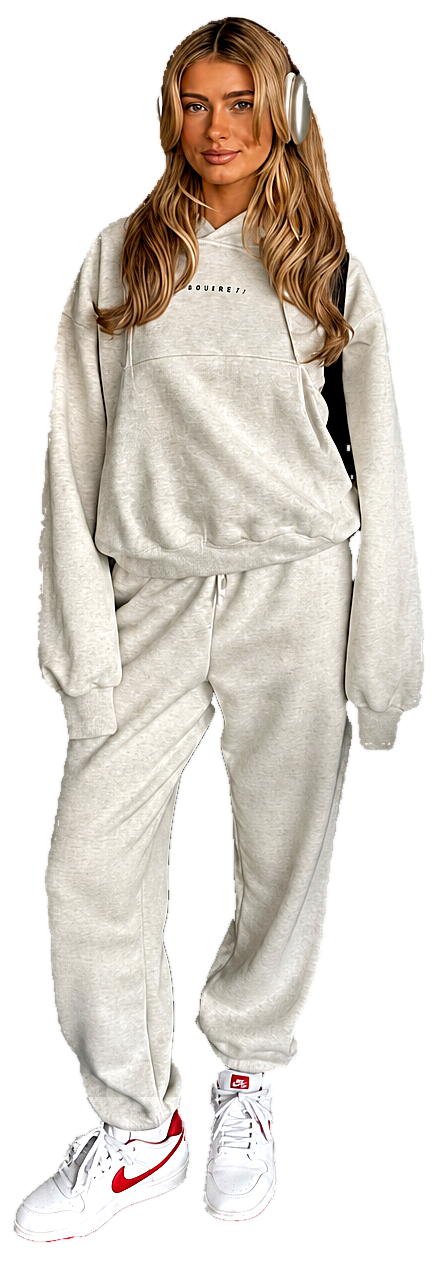
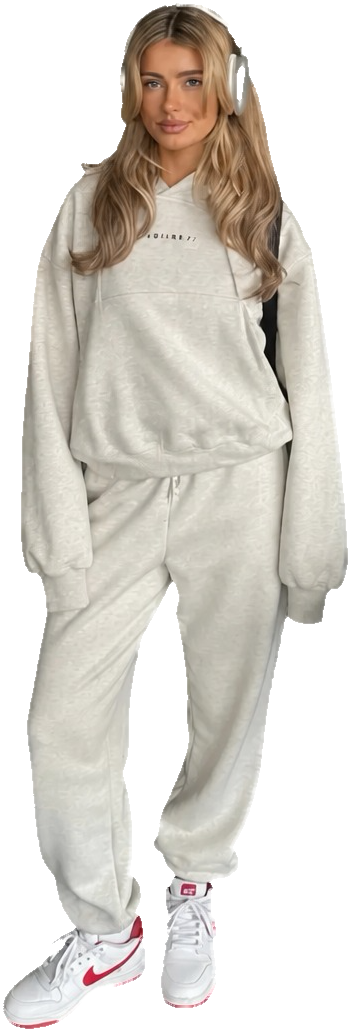
Fashion: recut style-carousel models from new photos, drop figure shadow stack
New user-supplied model photos for all four Discover-it slides, keyed off
their grey studio backdrops with an edge-flood pipeline (garment whites
preserved, pose gaps punched through, hair wisps translucent instead of
white-fringed). Remove the drop-shadow stack that read as a dark aura
around every figure, and size the centre figure down to 76%/55% lifted
off the stage floor so the photos render under native resolution.

diff --git a/components/StyleCarousel.css b/components/StyleCarousel.css
@@ -31,14 +31,8 @@
   object-fit: contain; object-position: bottom center;
   -webkit-user-drag: none;
   position: relative; z-index: 1;
-  /* Depth + separation: a grounded cast shadow lifts the figure off the
-     backdrop (the 3D), and a tight halo-shadow traces the silhouette so
-     light shoes / cream fabric never dissolve into a light slide. */
-  filter:
-    drop-shadow(0 22px 28px rgba(0,0,0,.5))
-    drop-shadow(0 8px 12px rgba(0,0,0,.36))
-    drop-shadow(0 2px 4px rgba(0,0,0,.28))
-    drop-shadow(0 0 1.5px rgba(0,0,0,.55));
+  /* no drop-shadows: the silhouette-hugging shadow stack read as a black
+     aura around every figure — grounding comes from the pedestal disc */
 }
 
 /* Mini pedestal — a soft round disc the figure appears to stand on. Two

diff --git a/components/StyleCarousel.js b/components/StyleCarousel.js
@@ -146,10 +146,12 @@ export default function StyleCarousel() {
     if (role === "center") {
       return {
         left: "50%",
-        bottom: 0,
+        bottom: isMobile ? "4%" : "7%",
         /* the cut-outs are trimmed tight to the subject, so the figure is
-           sized by height alone — no scale-up, or the head leaves the stage */
-        height: isMobile ? "62%" : "86%",
+           sized by height alone — no scale-up, or the head leaves the stage.
+           Kept well under native resolution so the photos stay crisp, and
+           lifted off the stage floor so the feet don't hug the fold. */
+        height: isMobile ? "55%" : "76%",
         transform: "translateX(-50%) scale(1)",
         filter: "blur(0px)",
         opacity: 1,
